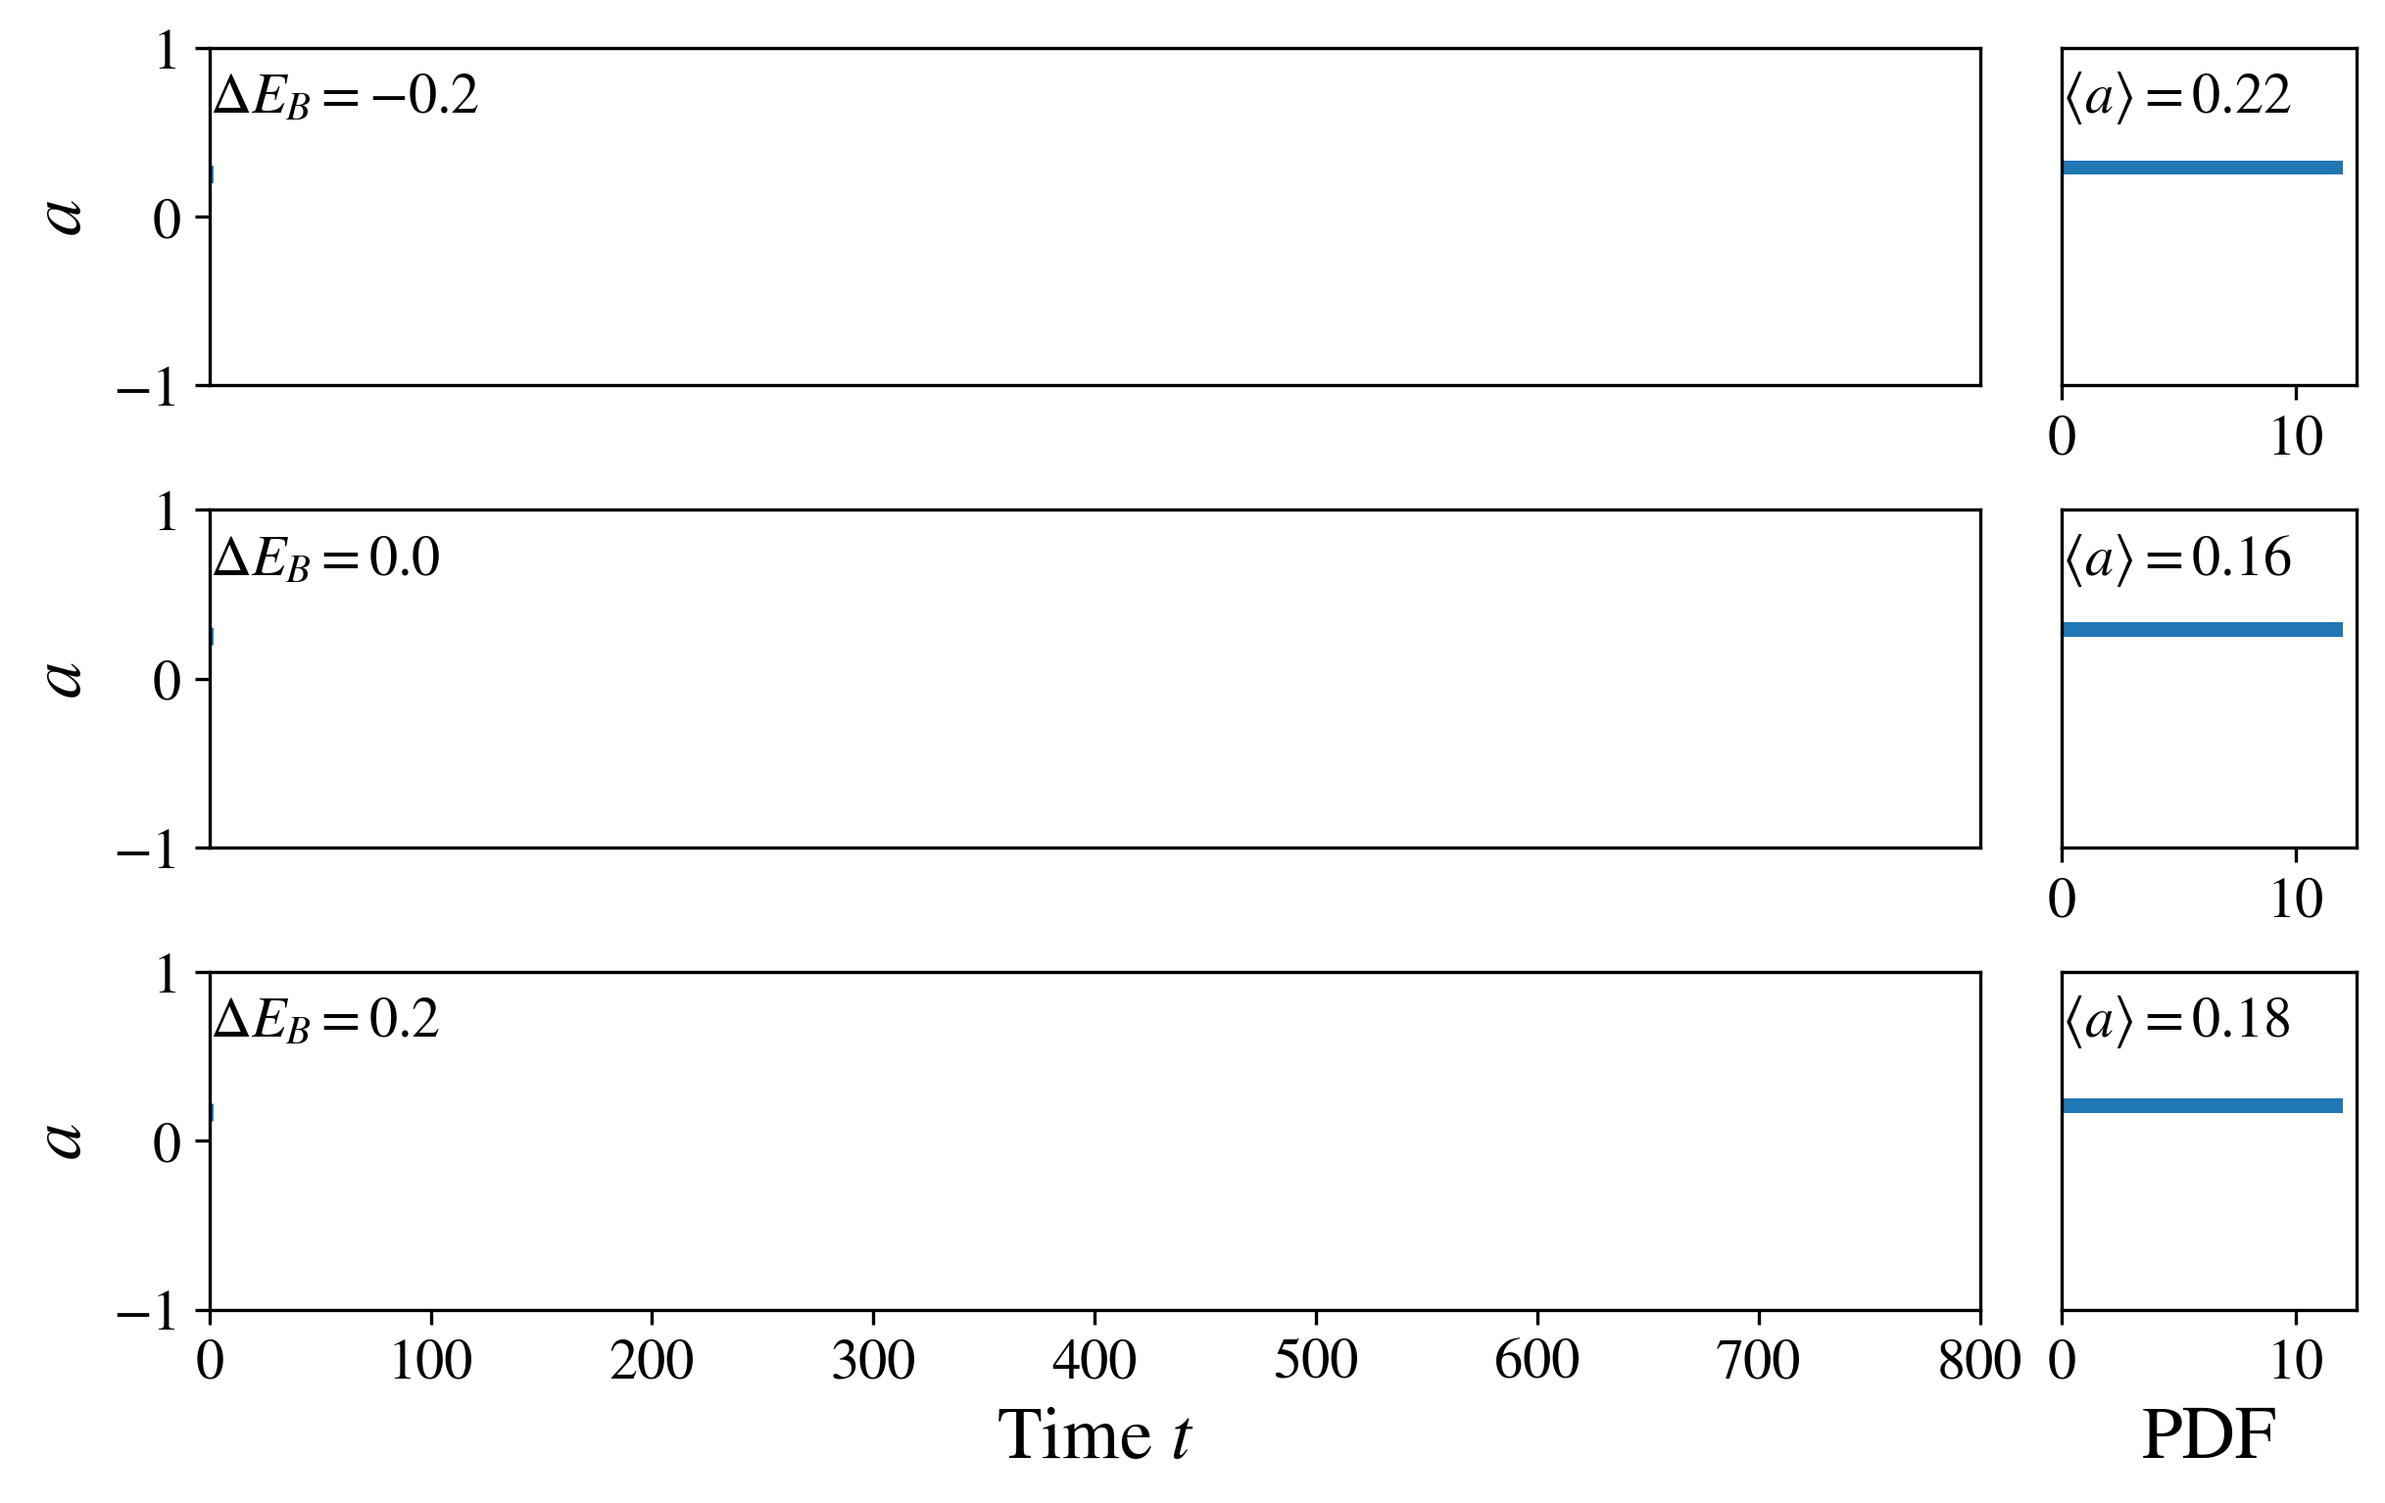
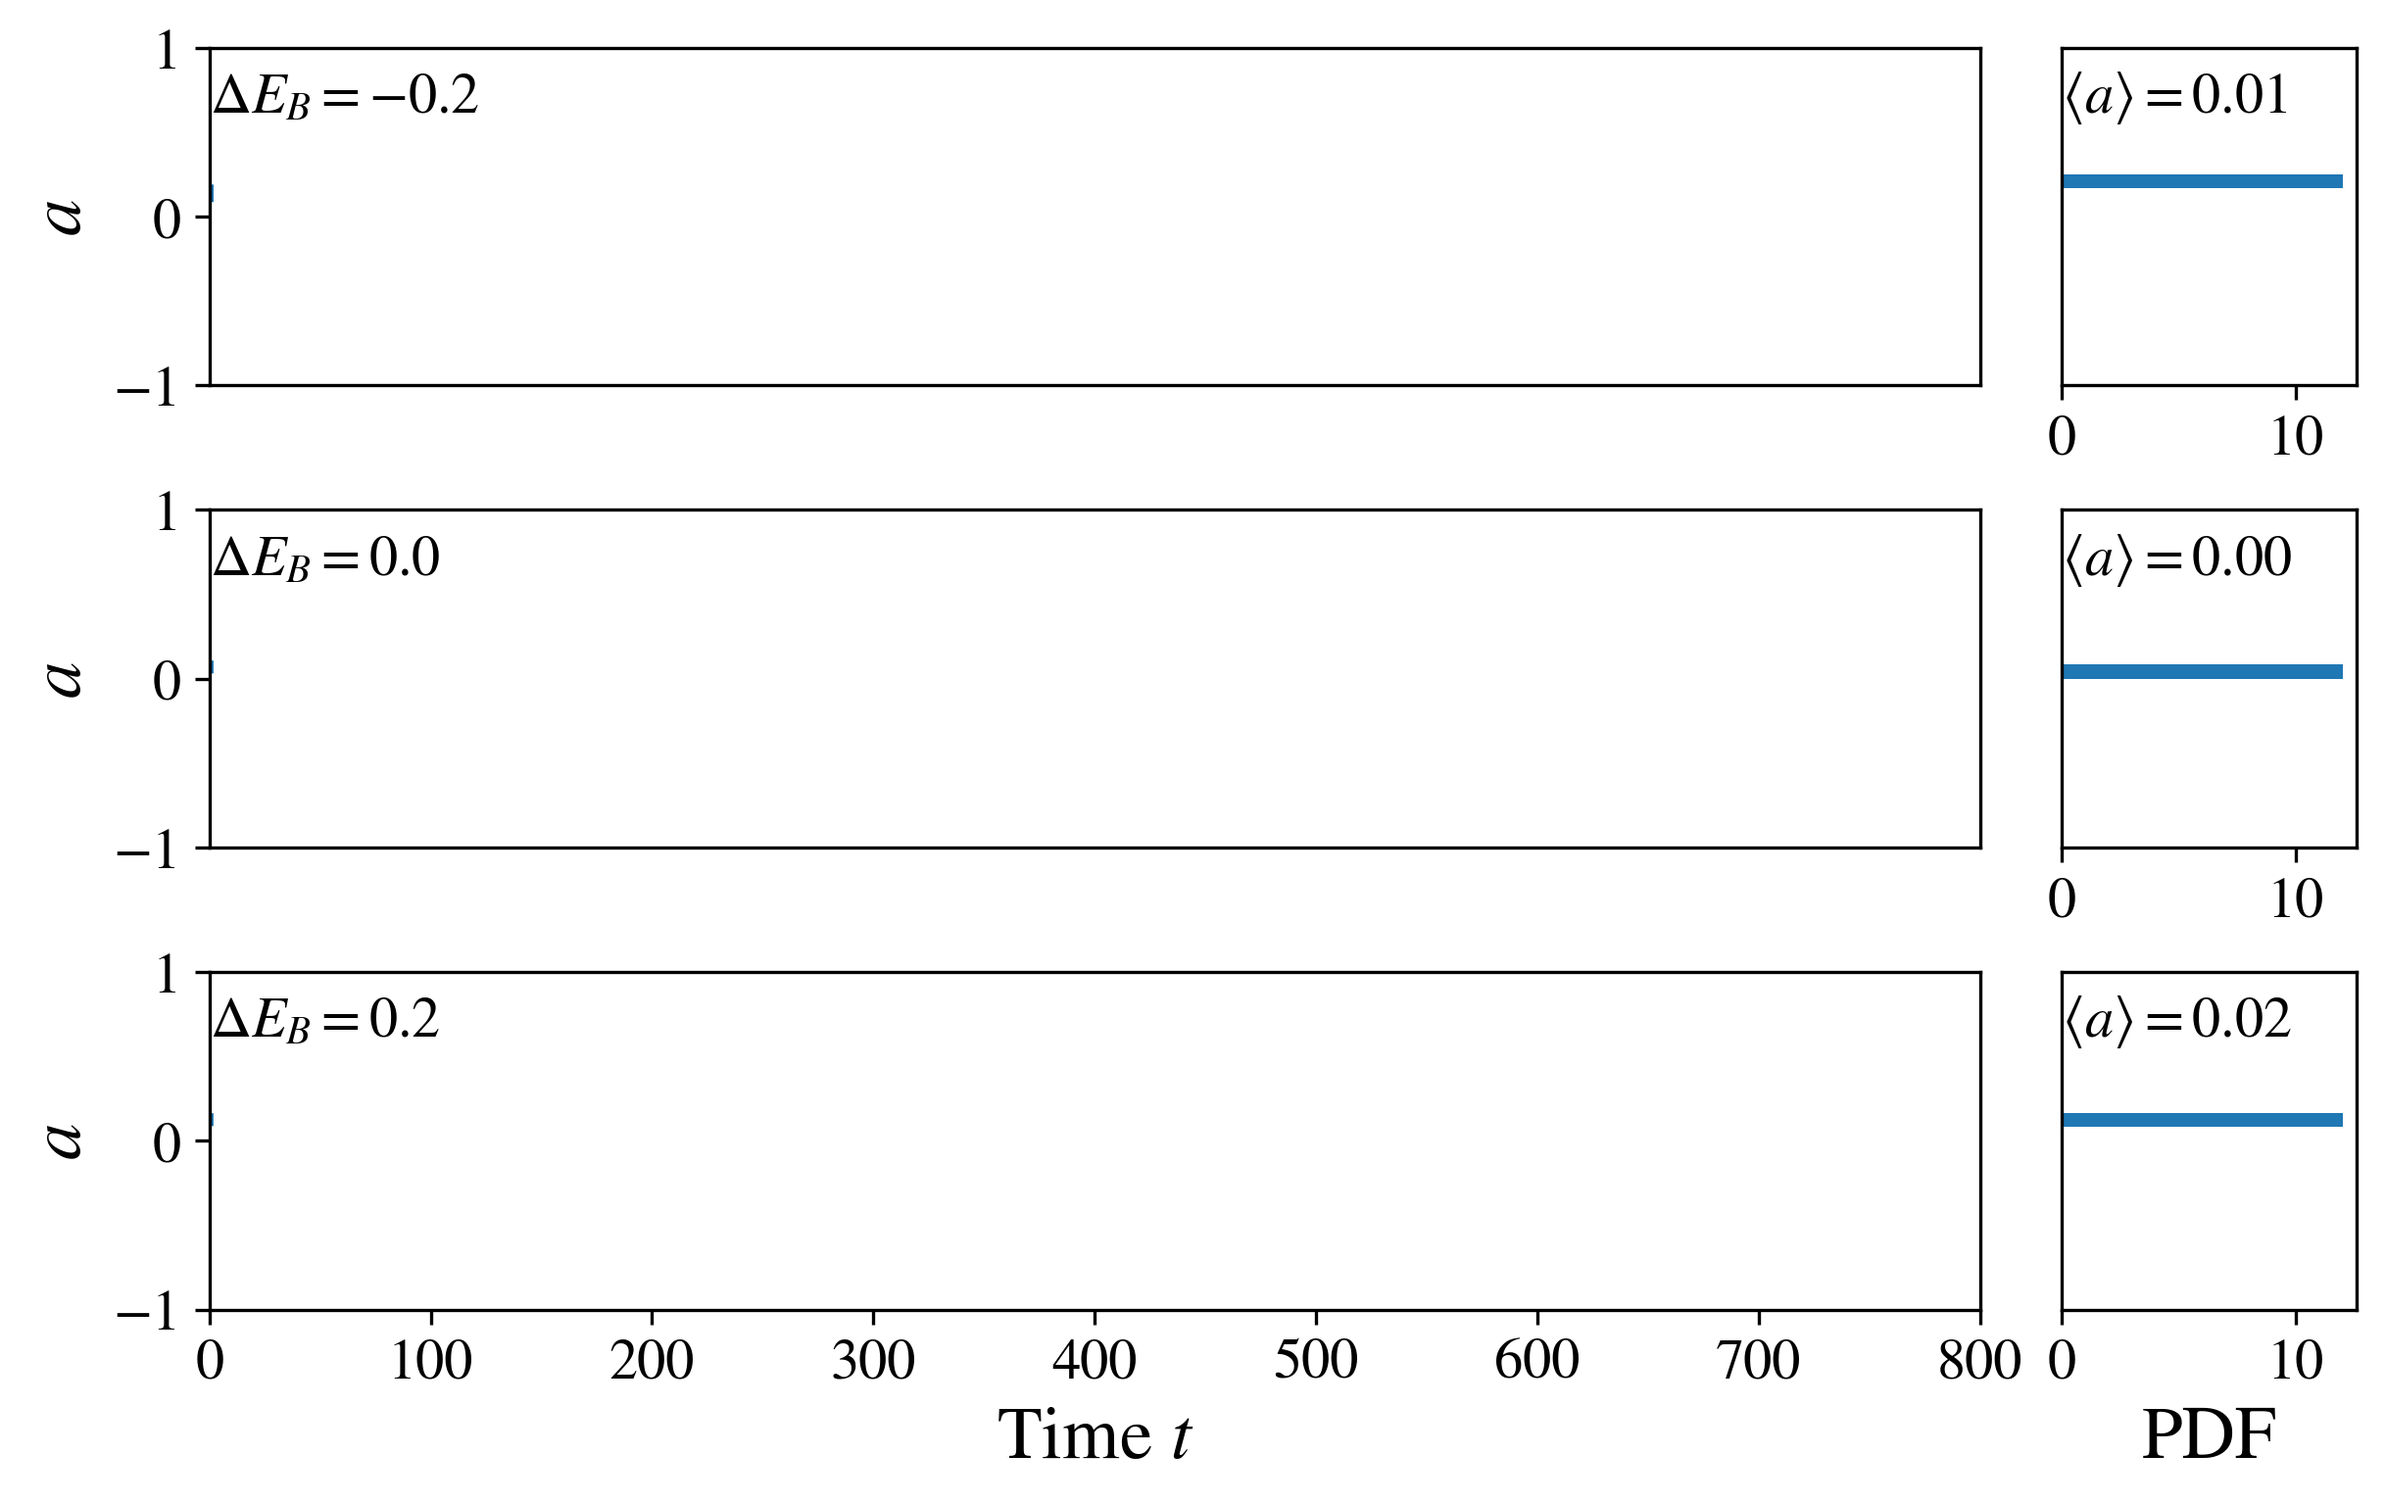
Adding results saver

Changed region(s): [[0.8743, 0.337, 0.9992, 0.4596], [0.8431, 0.6434, 0.9992, 0.766], [0.8431, 0.0306, 0.9992, 0.1226]]

diff --git a/reproduce_figures/Figure1/trajectorysimulator.py b/reproduce_figures/Figure1/trajectorysimulator.py
@@ -37,6 +37,15 @@ class TrajectorySimulator:
         )
         return final_state, t_trace, m_trace
 
+
+    def save_results(self):
+        # Return results as a dict instead of list of lists
+        results_dict = {}
+        for i, (t, m) in enumerate(zip(self.t_trace_all, self.m_trace_all)):
+            results_dict[f"t_trace_{i}"] = t
+            results_dict[f"m_trace_{i}"] = m
+        return results_dict
+    
     def run_simulations(self):
         for eb in self.eb_list:
             params = {

diff --git a/reproduce_figures/Figure1/make_figure1.py b/reproduce_figures/Figure1/make_figure1.py
@@ -124,3 +124,17 @@ sim = TrajectorySimulator(k1star, k2, k3, epsilon, J, N,
 sim.run_simulations()
 print("done simulating")
 sim.plot_results(save_path = "plots/trajectory.png")
+
+results = sim.save_results()
+
+params = {
+    "k1star": sim.k1star,
+    "k2": sim.k2,
+    "k3": sim.k3,
+    "epsilon": sim.epsilon,
+    "J": sim.J,
+    "N": sim.N,
+}
+
+saver = ResultsSaver()
+saver.save(results, params)
